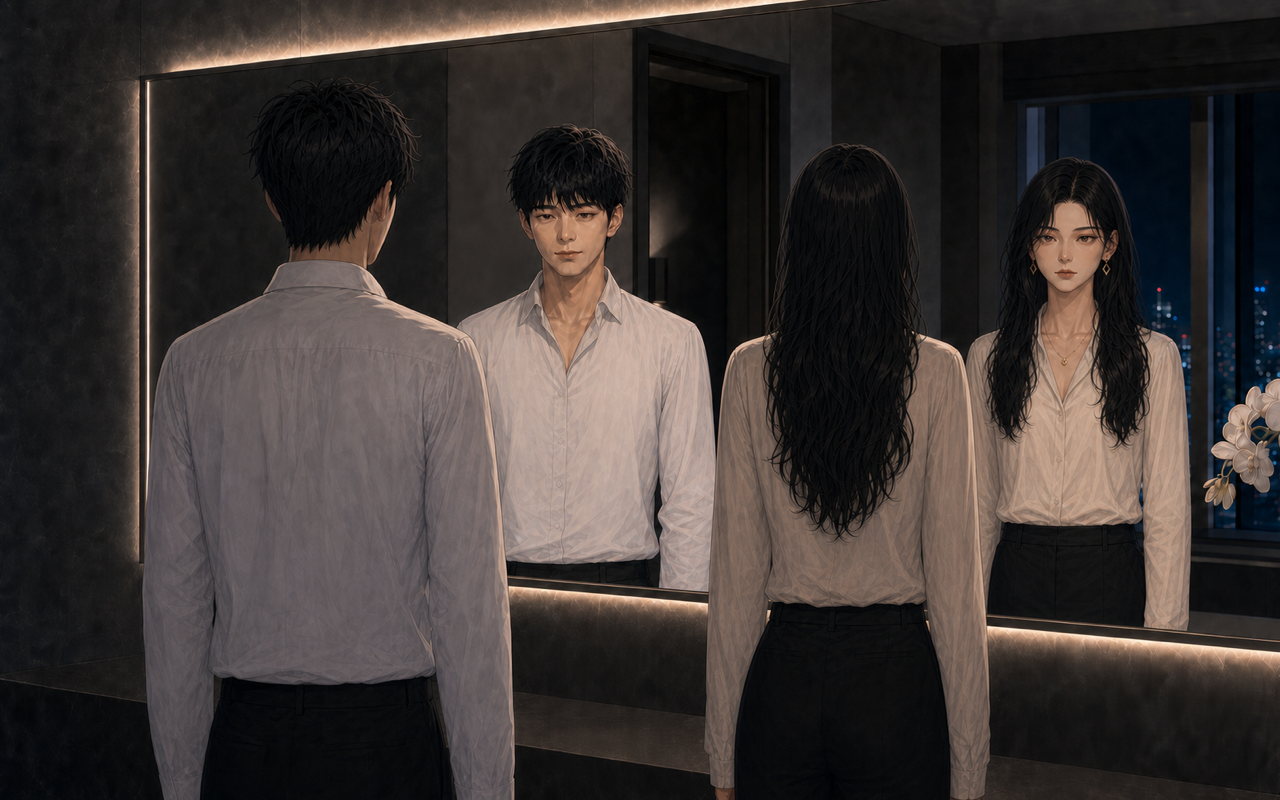
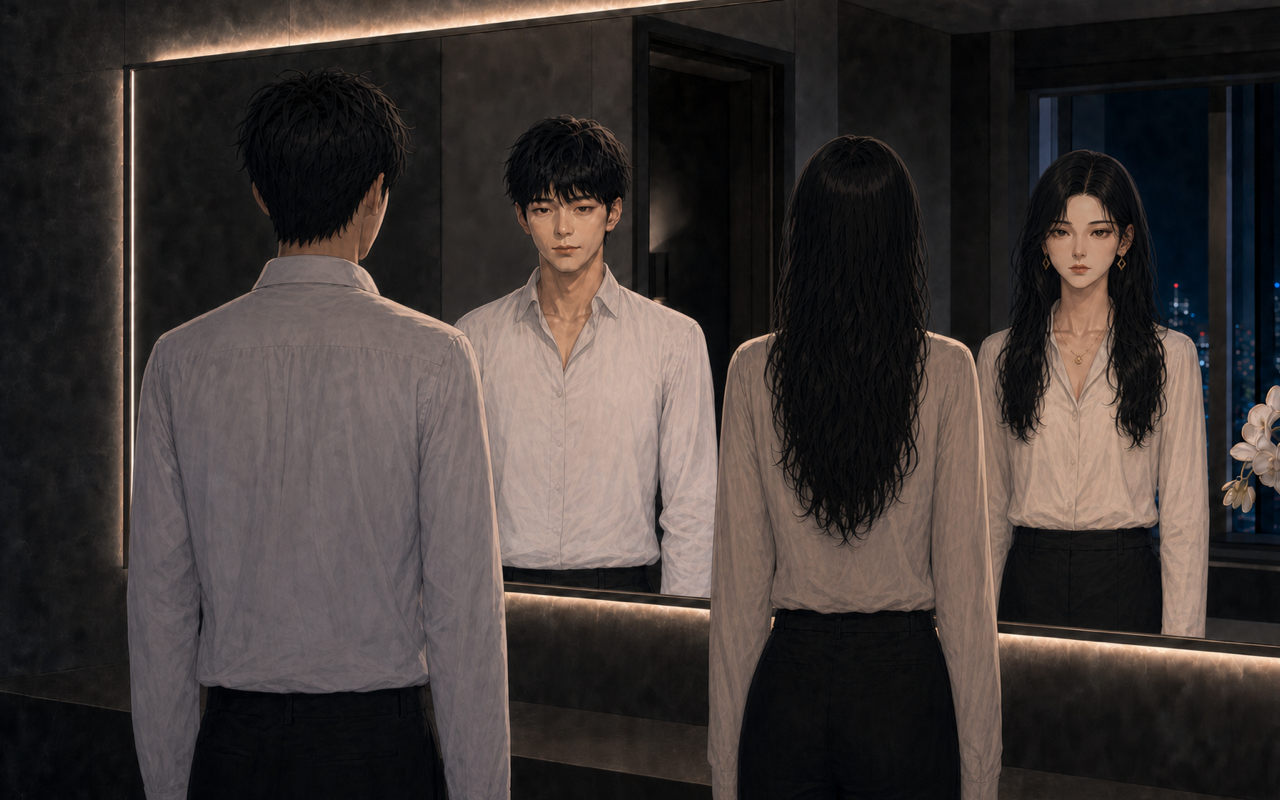
feat(art): add late-call ending CG

diff --git a/assets/IMAGE_PROMPTS.md b/assets/IMAGE_PROMPTS.md
@@ -304,7 +304,7 @@ Final shot prompts and built-in source outputs:
 - `assets/cg/ending_gangnam_dream_white_v1.png` — `exec-d2e5bbf5-70ab-44f0-83e3-60b3209de139.png`. Clear morning window; Minjun holds a blank cream deed folder and quietly meets one faint physically coherent reflection. Relief, not conquest.
 - `assets/cg/ending_with_daeun_v1.png` — `exec-24db2176-799d-4a80-b4a7-923a5b549e3a.png`. Modest outer-Seoul home; exactly two ramyeon bowls, two chopstick sets, and two water cups; Daeun and Minjun share mutual eye contact and near-touching hands. Rings hidden by angle.
 - `assets/cg/ending_second_love_v1.png` — `exec-379fc274-9d3e-4f01-acea-e3da97276af1.png`. Gangnam night window and compact coffee counter on one axis; Daeun holds one mug and turns toward Minjun while he prepares the second mug with coherent pour-over hands.
-- `assets/cg/ending_jiyeon_man_v1.png` — `exec-9b1c5efb-4fff-4c57-ad1c-dc50cbd4f5bd.png`. Off-axis mirror observer. Real Minjun is screen-left and real Jiyeon screen-right; their reflections preserve the same horizontal order, because a mirror reverses depth rather than swapping actors. Both actors and reflections share one front-facing, upright head/neck, level shoulders, square torso, and straight lowered-arm pose; every hand is below the mirror crop. Exactly two real people plus two reflections. `exec-9e721768-f952-406a-9554-4ecf4225873a.png` was rejected for horizontally swapping the reflected pair; `exec-0ebad28c-6535-4608-b8a0-7cae533b8efa.png` fixed order but changed arm poses; `exec-87994c38-c7a8-452d-a0a5-40d1a51215c2.png` still turned both foreground heads away from the pose shown in reflection; `exec-5d74ad12-cdbf-416f-8a9d-1bacdd79c46c.png` corrected the bodies but left Jiyeon's reflected head turned.
+- `assets/cg/ending_jiyeon_man_v1.png` — final correction source `exec-8f135993-0d87-4742-81f4-5dc9b336fe6f.png`. Off-axis mirror observer. Real Minjun is screen-left and real Jiyeon screen-right; their reflections preserve the same horizontal order, because a mirror reverses depth rather than swapping actors. Both actors and reflections share one upright head/neck, level shoulders, square torso, and straight lowered-arm pose; every hand is below the mirror crop. Exactly two real people plus two reflections. `exec-9e721768-f952-406a-9554-4ecf4225873a.png` was rejected for horizontally swapping the reflected pair; `exec-0ebad28c-6535-4608-b8a0-7cae533b8efa.png` fixed order but changed arm poses; `exec-87994c38-c7a8-452d-a0a5-40d1a51215c2.png` still turned both foreground heads away from the pose shown in reflection; `exec-5d74ad12-cdbf-416f-8a9d-1bacdd79c46c.png` corrected the bodies but left Jiyeon's reflected head turned; `exec-9b1c5efb-4fff-4c57-ad1c-dc50cbd4f5bd.png` kept the order but was rejected after runtime review because Minjun's head/torso axis and Jiyeon's shoulder/arm spacing still read as independent poses rather than one reflected stance.
 - `assets/cg/ending_guardian_v1.png` — `exec-85c50d6a-c635-4b5c-980d-ff17cb835e9c.png`. Modest Changwon hospital discharge exterior; Father walks independently and looks at Minjun while Minjun carries one duffel and one folded jacket.
 - `assets/cg/ending_jaehyuk_way_v1.png` — `exec-44a82c54-9458-453e-8060-b2b59c22d745.png`. Expensive empty Gangnam room at night; Minjun's narrow profile and one clear hand stop on a half-drawn curtain while the city remains partly visible.
 - `assets/cg/ending_sangchul_reckoning_v1.png` — `exec-e2eb0ad5-4673-4c53-b1d7-3e57a0e17a51.png`. Modest room at blue hour; visibly open window, lowered phone, still writing hand, blank papers, and one pen. No police form or guaranteed police location.
@@ -313,11 +313,28 @@ Post-processing:
 
 ```text
 All sources: center crop 1586x992 -> 1584x990, then resample to 1280x800.
+Jiyeon mirror final correction: center crop 1586x992 -> 1536x960, then resample to 1280x800.
 Jaehyuk source exposure: RGB gamma 0.68, contrast 0.93, brightness 1.06.
 Sangchul source exposure: RGB gamma 0.74, contrast 0.95, brightness 1.04.
 ```
 
 The two exposure lifts preserve every pixel position and exist only so Deep Black/White runtime grading can damage or recover the print without hiding faces, hands, the curtain, open window, or documents. KO/EN `--qa=ending-p0` owns the final modal crop and exact-texture gate.
+
+---
+
+## 2026-07-13 P1 ending CG — The Late Call
+
+The image was produced with Codex built-in ImageGen. Its invariant scene and crop contract lives in `assets/ENDING_P1_VISUAL_BIBLE.md`.
+
+- `assets/cg/ending_late_call_v1.png` — accepted source `exec-f7f29490-a3d1-4f42-997f-4be132387e0e.png`. Late-30s canonical Minjun sits in a physically coherent KTX window seat in winter rain, holds one unbranded phone to his right ear, and raises the removed earbud in his left hand. Father remains voice-only; one earbud case rests on Minjun's lap. The earlier `exec-efc65021-bac7-4f79-a8ad-40df10660347.png` was rejected because the removed-earbud hand fell below the centered 950x430 ending preview.
+
+Prompt lock:
+
+```text
+Create a restrained-color Gangnam Ink final-life ending CG aboard a KTX bound for Changwon. Preserve canonical 38-year-old Kim Minjun: lean Korean face, short messy black hair, tired eyes, charcoal travel coat over a worn black crewneck. Aisle-side three-quarter camera, coherent forward-facing two-seat row, rain-streaked window and moving winter landscape. His right hand holds one phone to his right ear; his raised left hand holds exactly one removed earbud; one case rests on his lap. He looks only at the rain as his shoulders quietly release. Father is voice-only. Keep the face, gaze, both hands, phone, earbud, and rain inside the centered ending crop. No other named person, station platform, readable route display, logo, luxury first class, lens gaze, broad smile, duplicated device, or malformed hand.
+```
+
+Post-processing: center crop 1586x992 to 1584x990, then resample to 1280x800. KO/EN `--qa=ending-p1` locks the base and Jaehyuk-memory variant; KO/EN `--qa=transport` separately proves that `ktx_window` is an interior and `hometown_train_station` remains a platform.
 
 ---
 

diff --git a/docs/ENDING_ART.md b/docs/ENDING_ART.md
@@ -1,6 +1,6 @@
 # 엔딩 아트 점검 & 컷신 우선순위
 
-Updated: 2026-07-12
+Updated: 2026-07-13
 
 ## 목적
 
@@ -42,6 +42,7 @@ Updated: 2026-07-12
 | `cg_ending_guardian` | `assets/cg/ending_guardian_v1.png` | `guardian` | 창원 퇴원 날·아버지 짐·나란한 걸음 |
 | `cg_ending_jaehyuk_way` | `assets/cg/ending_jaehyuk_way_v1.png` | `jaehyuk_way` | 반쯤 친 커튼·Deep Black에서도 읽히는 고립 |
 | `cg_ending_sangchul_reckoning` | `assets/cg/ending_sangchul_reckoning_v1.png` | `sangchul_reckoning` | 열린 창·내린 전화·빈 서류와 펜 |
+| `cg_ending_late_call` | `assets/cg/ending_late_call_v1.png` | `late_call` | 창원행 KTX·겨울비·전화·뺀 이어버드 |
 
 프로포즈·결혼 과정 CG인 `cg_romance_proposal_daeun`, `cg_romance_wedding_daeun_small`, `cg_romance_wedding_daeun_full`, `cg_romance_wedding_gap_jiyeon`과 T2 결별 결과인 `cg_romance_breakup_daeun`, `cg_romance_breakup_jiyeon`은 2026-07-12에 완성됐지만 **엔딩 CG가 아니다**. 선택의 실제 순간과 비용을 시각화할 뿐 `with_daeun`, `jiyeon_man`, `lonely_rich`, `ordinary_life`의 최종 생활을 대신하지 않는다.
 
@@ -66,7 +67,7 @@ Updated: 2026-07-12
 | `with_daeun` | A | `cg_ending_with_daeun` | `convenience_night` | P0 완료. 결혼 여부를 손 각도로 숨긴 최종 생활 컷 |
 | `jiyeon_man` | A | `cg_ending_jiyeon_man` | `gangnam_day` | P0 완료. 현실/반사 인물 순서·시선·자세 1:1 잠금 |
 | `jaehyuk_way` | B | `cg_ending_jaehyuk_way` | `gangnam_night` | P0 완료. 핵심 moral collapse 엔딩 |
-| `late_call` | B | 없음 | `ktx_window` | P1 신규 CG 후보 |
+| `late_call` | B | `cg_ending_late_call` | `ktx_window` | P1 완료. 모든 기억 변주의 공통 물리인 KTX·전화·비만 고정 |
 | `stable_success` | B | 없음 | `rooftop_day` | P2. 전용 안정 배경이 있으면 좋음 |
 | `ordinary_life` | C | 없음 | 없음 | 공통 모노톤 실패/일상 카드 |
 | `burnout` | F | 없음 | 없음 | P1 공통 실패 CG 후보 |
@@ -118,7 +119,7 @@ Updated: 2026-07-12
 
 | 새 cg key | 연결 엔딩 | 장면 스펙 |
 |---|---|---|
-| `cg_ending_late_call` | `late_call` | KTX 창가, 폰을 쥔 손, 빗방울. 얼굴을 크게 안 보여줘도 됨 |
+| `cg_ending_late_call` | `late_call` | **완료.** 창원행 KTX 창가, 폰을 귀에 붙인 오른손, 화면 안에 남는 뺀 이어버드 왼손, 빗방울. 아버지는 음성으로만 존재 |
 | `cg_ending_instant_legend` | `instant_legend` | 너무 이른 강남 도착. 넓은 거실이 오히려 비현실적으로 비어 보임 |
 | `cg_ending_startup_exit` | `startup_exit` | 작은 사무실/회의실, 계약서와 노트북. 벼락부자보다 숨 돌리는 창업자 |
 | `cg_ending_lonely_rich` | `lonely_rich` | 고급 거실에서 혼자 배달앱을 닫는 장면. 돈과 외로움의 대비 |
@@ -127,7 +128,7 @@ Updated: 2026-07-12
 | `cg_ending_bankruptcy` | `bankruptcy`, `debt_spiral` | 계산기, 독촉 문자, 비 오는 방. 실패 공통 컷 가능 |
 | `cg_ending_burnout` | `burnout` | 응급실 형광등/천장/링거와 보호자 연락 질문. 정신건강의학과 `mental_break`와 공유 금지 |
 
-노출·감정 회수·상점 스크린샷 가치를 함께 보면 다음 실제 제작 순서는 `late_call` → `lonely_rich` → `gambling_recovery` → `bankruptcy/debt_spiral`이다. `startup_exit`, `instant_legend`, `orthodox_pinnacle`은 강한 성취 컷이지만 조건부 경로라 그다음이다. `mental_break`는 전용 진료실 컷을 만들기 전까지 정합한 엔딩 카드로 남긴다.
+`late_call`은 완료했다. 노출·감정 회수·상점 스크린샷 가치를 함께 보면 다음 실제 제작 순서는 `lonely_rich` → `gambling_recovery` → `bankruptcy/debt_spiral`이다. `startup_exit`, `instant_legend`, `orthodox_pinnacle`은 강한 성취 컷이지만 조건부 경로라 그다음이다. `mental_break`는 전용 진료실 컷을 만들기 전까지 정합한 엔딩 카드로 남긴다.
 
 ### P2 — 있으면 고급스러운 엔딩
 

diff --git a/CLAUDE.md b/CLAUDE.md
@@ -13,10 +13,10 @@
 | **상품 정의** | "강남 가는 게임"이 아니라 **"영혼이 색으로 무너지는 걸 지켜보는 게임"** — MORAL_TINT + description_if_known(재독) + 잃을 수 있는 결혼. 마케팅·데모·트레일러 전부 이 하나로 정렬. |
 | **최종 품질 게이트** | 전 영역 기준점·P0~P3·메타90/100만장 검증 조건은 `docs/MASTER_RELEASE_AUDIT.md`. 콘텐츠 수량이 아니라 블랙박스 플레이·한영 패리티·패드 과업·외부 기억/전환 증거로 판정. |
 | **이번 스프린트 (5레버)** | ①**루프 압축(몽타주)** ✅완료 ②**데모 훅** ✅완료(콜드오픈+SNS dik 양변주) ③**클립 가능성** ✅완료(시간의 기록 비주얼 카드+데모판) ④**EN 일관성** ✅완료 ⑤**오디오 정체성** ✅완료(moral band BGM 질감 전이+선택적 3변주 슬롯) |
-| **최근 완료** | **2026-07-12** — T2 결별 결과 CG 2종을 완성했다. 다은의 합의서 도장과 지연의 현관 이탈은 각 신혼집·정본 의상에서 결별 선택의 정확한 결과 문단에만 열리며, 반대 선택에는 누출되지 않는다. 지연 엔딩 거울도 현실/반사 모두 곧은 목·수평 어깨·정면 몸통·내린 팔로 최종 교정했다. 활성 CG 43장/배우 계약 79개, KO/EN breakup 각 10컷 + ending-p0 각 8컷 통과. |
-| **이전 주요** | **2026-07-12** — T1 프로포즈·결혼 선택 비주얼, 정류장 벤치 최종 반전, 설날/붕어빵, 카페 폴더 주인/김 부장 분리, 현수 터미널/회계·공무원 연속성, AP 24종 인월드 목적지 스틸, 상철 개인실, Year 2-4 겨울 연말, MORAL_TINT 명도 불변/Black 금빛 돈/주간 지각 완료. **2026-07-11** — 첫날밤/첫아침, 시골 여름, 남산·놀이동산, 첫눈/기후 의상 완료. 전체 이력 → `docs/WORK_LOG.md` |
-| **다음 작업** | 정식 출시 전 P1 결산 CG를 실제 노출·감정 회수 순으로 제작한다: `late_call` → `lonely_rich` → `gambling_recovery` → `bankruptcy/debt_spiral`. `mental_break`는 응급실 `burnout`과 공유하지 않는다. T2 히든 「그녀는 알고 있었다」는 Claude가 실제 이벤트·소유자를 구현한 뒤 제작한다. |
-| **마지막 업데이트** | 2026-07-12 (Codex: T2 결별 CG 2종 + 지연 거울 자세 최종 교정) |
+| **최근 완료** | **2026-07-13** — P1 `late_call` 전용 결산 CG를 완성했다. 창원행 KTX·겨울비·전화·뺀 이어버드만 모든 기억 변주의 공통 물리로 고정하고, 열차 실내 `ktx_window`와 지방역 `hometown_train_station`을 분리했다. 지연 엔딩 거울도 좌우뿐 아니라 머리-척추 축·어깨·몸통·내린 팔이 한 자세로 읽히도록 재교정했다. 활성 CG 44장/배우 계약 80개, KO/EN ending-p1·transport·ending-p0 통과. |
+| **이전 주요** | **2026-07-12** — T2 결별 결과 CG 2종, P0 최종 삶 엔딩 CG 8종, T1 프로포즈·결혼 선택 비주얼, 정류장 벤치 최종 반전, 설날/붕어빵, 카페 인물 분리, 현수 단계 연속성, AP 24종 인월드 스틸, 상철 개인실, Year 2-4 겨울 연말, MORAL_TINT 명도 불변/Black 금빛 돈/주간 지각 완료. **2026-07-11** — 첫날밤/첫아침, 시골 여름, 남산·놀이동산, 첫눈/기후 의상 완료. 전체 이력 → `docs/WORK_LOG.md` |
+| **다음 작업** | 정식 출시 전 P1 결산 CG를 실제 노출·감정 회수 순으로 제작한다: `lonely_rich` → `gambling_recovery` → `bankruptcy/debt_spiral`. `mental_break`는 응급실 `burnout`과 공유하지 않는다. T2 히든 「그녀는 알고 있었다」는 Claude가 실제 이벤트·소유자를 구현한 뒤 제작한다. |
+| **마지막 업데이트** | 2026-07-13 (Codex: late_call P1 CG + KTX/역 분리 + 지연 거울 포즈 재교정) |
 
 **세션 시작 시 위 "다음 작업"부터. 유저가 다른 지시를 하면 그쪽 우선.**
 

diff --git a/assets/ASSET_INDEX.md b/assets/ASSET_INDEX.md
@@ -21,6 +21,7 @@ Updated on 2026-07-12 for the separate cafe folder-owner and Manager Kim portrai
 Updated on 2026-07-12 for the player-facing wallet bus-stop bench, winter bungeoppang cart, and canonical Changwon Seollal bow CG.
 Updated on 2026-07-12 for Daeun's choice-gated proposal and small/full wedding variants plus Jiyeon's pre-decision wedding-scale negotiation CG.
 Updated on 2026-07-12 for eight final-life P0 ending CGs, physically correct Jiyeon mirror geometry, and ending-preview Moral legibility.
+Updated on 2026-07-13 for the `late_call` P1 ending CG, final Jiyeon mirror-pose correction, and separate KTX-interior/station semantic IDs.
 
 ## Use These Assets
 
@@ -383,7 +384,7 @@ Updated on 2026-07-12 for eight final-life P0 ending CGs, physically correct Jiy
 
 - `assets/backgrounds/regional_train_window_summer.png`
   - Person-free interior of a modest Korean intercity train with a two-seat window pair and summer rice paddies outside.
-  - Use for written in-train window scenes; do not substitute the outdoor station platform.
+  - Runtime IDs `ktx_window` and `regional_train_window` both resolve here. Use for written in-train window scenes; do not substitute the outdoor `hometown_train_station` platform.
 - `assets/backgrounds/daeun_mother_home_dining_summer.png`
   - Daeun mother's modest rural dining room at summer dusk, separate from Minjun's father's Changwon home.
   - Exactly three rice/soup place settings, centered rolled omelet, standing fan, medicine and reading glasses; no large family portrait or male factory jacket.
@@ -570,6 +571,7 @@ Updated on 2026-07-12 for eight final-life P0 ending CGs, physically correct Jiy
 
 - `assets/cg/ending_crypto_ghost.png`
   - Crypto Ghost ending CG: cramped late-night trading den, abstract chart light, phone in hand, cluttered desk, and exhausted Minjun.
+  - Use only for `crypto_ghost`; charts must stay abstract with no readable exchange text or real crypto logos.
 
 - `assets/cg/ending_full_circle_v1.png`
   - `full_circle` only. Newly occupied Gangnam room; Minjun tells Father by phone that Sangchul's debt is cleared. Father is not physically present.
@@ -594,7 +596,10 @@ Updated on 2026-07-12 for eight final-life P0 ending CGs, physically correct Jiy
 
 - `assets/cg/ending_sangchul_reckoning_v1.png`
   - `sangchul_reckoning` only. Lowered phone, open window, blank papers, and one pen support both police-statement and direct-settlement prose variants.
-  - Use only for `crypto_ghost`; charts must stay abstract with no readable exchange text or real crypto logos.
+
+- `assets/cg/ending_late_call_v1.png`
+  - `late_call` only. On the Changwon-bound KTX, late-30s Minjun holds one phone to his right ear and one removed earbud above the ending crop while winter rain moves down the window.
+  - Father, Sangchul, Jaehyuk, and romance characters remain outside the frame because the ending variants guarantee only Minjun, the train, the call, and the rain.
 
 - `assets/cg/jaehyuk_reveal.png`
   - Jaehyuk route reveal CG: private meeting room, moral line-crossing moment.

diff --git a/docs/WORK_LOG.md b/docs/WORK_LOG.md
@@ -1,5 +1,23 @@
 # Gangnam Dream Work Log
 
+## 2026-07-13 (Codex — P1 늦은 전화 엔딩 CG + 지연 거울 포즈 재교정)
+
+### 진단
+- `late_call`은 아버지와 화해한 5년 결산의 핵심 B엔딩인데 전용 이미지가 없었다. 더구나 `ktx_window`가 실제 열차 내부가 아니라 지방역 승강장에 연결돼 바다 데이트와 아버지 KTX 전화가 모두 플랫폼으로 보였다.
+- 최재혁을 끝까지 믿었던 `late_call` 변주만 KTX·비·이어폰을 생략해, 하나의 엔딩 CG를 다른 변주와 공유할 수 없는 물리적 예외가 있었다. 영어의 `dial tone rang`과 아버지가 자신을 `Dad`로 지칭하는 대사도 번역투였다.
+- 직전 `jiyeon_man` 교정본은 좌우 순서는 맞았지만 실제 민준의 머리-몸통 축과 지연의 어깨·팔 간격이 반사상과 별개 자세처럼 읽혔다. 거울은 닮은 두 포즈가 아니라 한 자세의 반사여야 했다.
+
+### 구현
+- 창원행 KTX 창가에서 38세 민준이 오른손 전화기를 귀에 붙이고 왼손으로 뺀 이어버드를 든 `ending_late_call_v1.png`를 제작했다. 아버지·상철·재혁은 모든 변주에서 프레임 밖 음성/기억으로 남기고, 얼굴·두 손·전화·이어버드·겨울비를 950×430 중앙 미리보기에 고정했다.
+- `late_call`에 전용 CG를 배선하고 최재혁 변주도 같은 겨울비 KTX에서 전화를 거는 장면으로 최소 교정했다. 영어 수신음과 아버지 대사를 자연스럽게 다듬고 엔딩 요약의 반복도 제거했다.
+- `ktx_window`는 실제 무인 열차 내부로 복구하고 `hometown_train_station`을 별도 ID로 분리했다. 바다 데이트와 아버지 전화는 실내, 명절 선택은 승강장이라는 의미를 데이터·런타임·QA 계약으로 잠갔다.
+- 지연 거울은 실제/반사 모두 민준 왼쪽·지연 오른쪽을 유지하면서 머리-척추 축, 수평 어깨, 정면 몸통, 내린 팔의 간격이 한 자세로 읽히는 최종본으로 다시 교체했다. 손은 모달 아래로 숨겨 독립 제스처 가능성을 제거했다.
+
+### 검증
+- KO/EN `--qa=ending-p1` 각 2컷에서 기본/최재혁 기억 변주의 정확한 전용 텍스처와 430px 크롭을 확인했다. KO/EN `--qa=transport` 각 3컷은 바다·아버지 장면의 열차 내부와 명절 장면의 지방역 승강장을 분리했고, KO/EN `--qa=ending-p0` 각 8컷은 교체한 지연 거울을 통과했다.
+- `CGRuntimeCheck` 통과. `event_visual_contract_check.py --strict`는 62개 잠금/부채 0, `cg_acting_contract_check.py`는 활성 CG 44장/배우 계약 80개/누락·고아 0을 보고했다. 영어 누출 0, 대표 아크 잼 0이다.
+- 전체 `audit.sh`는 ERROR 0/WARNING 0, write-only/inert 0, 오디오 64개, 밸런스 1,200런×3, GDScript 57개 컴파일을 통과하고 `✅ 감사 통과`로 끝났다.
+
 ## 2026-07-12 (Codex — T2 결별 결과 CG + 지연 거울 자세 최종 교정)
 
 ### 진단

diff --git a/assets/ENDING_P1_VISUAL_BIBLE.md b/assets/ENDING_P1_VISUAL_BIBLE.md
@@ -1,0 +1,30 @@
+# Gangnam Dream P1 Ending Visual Bible
+
+This document owns the release-tier P1 ending CGs added after the eight-image P0 final-life package. Each image depicts the ending's shared physical truth across every `description_if_known` variant. It never bakes a conditional person, confession, or route fact into the frame.
+
+## Shared Contract
+
+- Runtime source: 1280x800 PNG, restrained-color Gangnam Ink VN climax layer.
+- Every ending owns a distinct CG key and file. No event, romance, or other ending may borrow it.
+- The centered 950x430 ending preview must retain the face, gaze, decisive hand, and story prop.
+- Conditional characters remain voice-only or outside the frame unless every prose variant guarantees their physical presence.
+- No readable UI, route sign, ticket, legal text, brand, logo, watermark, or invented ending fact.
+- Runtime Moral Tint may damage color and print surface but cannot erase the decisive action.
+
+## `cg_ending_late_call`
+
+- File: `assets/cg/ending_late_call_v1.png`.
+- Owner: `late_call` only.
+- Shared moment: on a KTX bound for Changwon, Minjun has heard Father's voice and presses the phone closer after removing an earbud. Father is voice-only.
+- Camera: medium-wide aisle-side three-quarter. Minjun occupies the screen-center window seat; the rain-streaked window and moving Korean winter landscape fill screen-right. The forward-facing two-seat row, armrests, aisle, overhead rack, and window alignment must remain physically coherent.
+- Identity: 38-year-old Minjun retains the canonical lean face, short messy black hair, tired eyes, and hollow cheeks. He wears a plain charcoal travel coat over the worn black crewneck, never a corporate suit or success costume.
+- Acting: right hand holds one unbranded phone to the right ear. Raised left hand holds exactly one removed earbud; one case rests on the lap. His eyes stay on the rain, mouth barely released, shoulders easing without a broad smile or collapse.
+- Variant lock: Sangchul and Jaehyuk are memories only. No Father, scammer, partner, romance heroine, gukbap bowl, Gangnam apartment, or station platform appears.
+- Avoid: subway bench, luxury first class, Japanese rail styling, readable route display, repeated phone/earbud/case, malformed hands, lens gaze, funeral mood, or triumphant arrival.
+
+## Acceptance Gate
+
+- `ImageRegistry`, Korean ending data, `cg_acting_manifest.json`, and `CGRuntimeCheck` agree on the owner and path.
+- The English ending remains a text-only overlay and inherits the Korean CG key.
+- `ScreenshotQA --qa=ending-p1 --lang=ko/en` proves the exact texture, 430px crop, base copy, and the `jaehyuk_trusted_fully` variant that previously omitted the train.
+- Event visual contracts prove that `ktx_window` resolves to an actual train interior, while the holiday decision retains the separate provincial station platform.

diff --git a/docs/RELEASE_NOTES.md b/docs/RELEASE_NOTES.md
@@ -1,6 +1,7 @@
 # Gangnam Dream Release Notes
 
 ## Unreleased
+- Added the first P1 final-life CG for `late_call`: Minjun now makes the delayed call from a rain-streaked Changwon-bound KTX, with Father and route-specific memories kept outside the frame so every ending variant remains truthful. Split the semantic train-interior and provincial-platform IDs, restored the sea-date and Father-call scenes to an actual carriage, retained the holiday choice at the station, and added focused Korean/English ending and transport QA. Also replaced Jiyeon's ending mirror again after runtime review so the foreground bodies and reflections share one readable head-spine, shoulder, torso, and lowered-arm pose instead of merely preserving actor order, and polished the repeated English phone dialogue.
 - Added dedicated paragraph-delayed rupture CGs for Daeun's betrayal result and Jiyeon's departure result. Both now use their canonical newlywed homes, never leak into the relationship-preserving choice, and keep heroine outfit, gaze, architecture, and lower dialogue crop coherent in Korean and English. Daeun's impossible pre-registration divorce-paper line is now a separation agreement she visibly seals. Also replaced the Jiyeon ending mirror once more so the real bodies and reflections match in head, neck, shoulders, torso, and arms, not only left-right order.
 - Completed the eight-image P0 final-life ending package for `full_circle`, `gangnam_dream_white`, `with_daeun`, `second_love`, `jiyeon_man`, `guardian`, `jaehyuk_way`, and `sangchul_reckoning`. Each ending now owns a distinct 1280x800 final-state CG instead of reusing proposal, wedding, hospital-visit, or generic Gangnam art. The Jiyeon mirror keeps both actor order and body pose physically identical between reality and reflection, Deep Black preserves readable faces/actions, and dedicated KO/EN screenshot QA locks the exact texture and 430px preview crop. Also corrected Daeun's married ending so it no longer fabricates a Gangnam arrival, fixed her Korean speech register, and kept the English overlay text-only.
 - Completed the commitment-scene visual package. Daeun's cafe proposal now keeps its ring hidden until the accepted result paragraph, the delayed branch never leaks that CG, and the wedding-prep spend persists into distinct modest/full ceremony images without filling Minjun's sparse guest side. Jiyeon's route now shows the pre-decision hotel-ballroom class negotiation rather than an unrelated night street or a fabricated bridal outcome. Added a matched proposal portrait, flag-dependent event CGs with legacy-save fallback, explicit acting/eye-line contracts, and an 11-shot Korean/English regression scope.

diff --git a/docs/CODEX_QUEUE.md b/docs/CODEX_QUEUE.md
@@ -61,7 +61,11 @@
 
 ## [x] P0-1. 최종 삶 엔딩 CG 8종 (2026-07-12 Codex 완료)
 
-완료: `full_circle`, `gangnam_dream_white`, `with_daeun`, `second_love`, `jiyeon_man`, `guardian`, `jaehyuk_way`, `sangchul_reckoning`이 과정 CG 재사용 없이 각각 전용 1280×800 최종 삶 CG를 소유한다. 지연 거울은 현실/반사 모두 민준 왼쪽·지연 오른쪽 순서와 머리·어깨·몸통·내린 팔 자세를 1:1로 유지하며, Deep Black 엔딩도 얼굴·손·커튼이 읽히는 전용 미리보기 중간톤을 쓴다. 활성 CG 41장·배우 계약 75개, KO/EN `--qa=ending-p0` 8컷, exact texture/430px crop, `CGRuntimeCheck`가 배선을 잠근다.
+완료: `full_circle`, `gangnam_dream_white`, `with_daeun`, `second_love`, `jiyeon_man`, `guardian`, `jaehyuk_way`, `sangchul_reckoning`이 과정 CG 재사용 없이 각각 전용 1280×800 최종 삶 CG를 소유한다. 지연 거울은 현실/반사 모두 민준 왼쪽·지연 오른쪽 순서와 머리-척추 축·어깨·몸통·내린 팔 자세를 1:1로 유지하며, Deep Black 엔딩도 얼굴·손·커튼이 읽히는 전용 미리보기 중간톤을 쓴다. KO/EN `--qa=ending-p0` 8컷, exact texture/430px crop, `CGRuntimeCheck`가 배선을 잠근다.
+
+## [ ] P1-E. 정식 출시 결산 CG 확장 (2026-07-13: 1/8)
+
+`late_call` 완료: 창원행 KTX의 민준·전화·겨울비·뺀 이어버드만 모든 기억 변주의 공통 사실로 고정했다. `ktx_window`를 실제 실내로 복구하고 지방역 `hometown_train_station`을 분리했으며, KO/EN `ending-p1` 2컷과 `transport` 3컷이 배선·크롭·장소 의미를 잠근다. 다음 실제 제작 순서는 `lonely_rich` → `gambling_recovery` → `bankruptcy/debt_spiral`; 이후 조건부 성취 엔딩과 `burnout`을 별도 판단한다.
 
 ## [x] P1-0. AP 주간 결정 보드 (2026-07-10 Codex 완료)
 

diff --git a/docs/DECISIONS.md b/docs/DECISIONS.md
@@ -1,5 +1,12 @@
 # Gangnam Dream Decisions
 
+## 2026-07-13 (거울은 같은 포즈를 증명하고, 엔딩 CG는 모든 변주의 공통 사실만 소유한다)
+
+- **거울의 판정 단위**: 인물 좌우 순서가 맞는 것만으로는 통과가 아니다. 실제 몸과 반사상은 한 사람의 단일 자세여야 하므로 머리-척추 축, 목 각도, 어깨 높이·기울기, 몸통 방향, 팔과 몸 사이 간격을 1:1로 읽을 수 있어야 한다. 독립 포즈처럼 보인 직전 `jiyeon_man` 후보는 폐기하고, 손은 양쪽 모두 미리보기 아래로 숨긴 최종본으로 교체한다.
+- **엔딩 변주 공유**: `description_if_known`이 여러 개인 엔딩 CG에는 모든 변주가 보장하는 물리만 그린다. `late_call`은 민준·창원행 KTX·겨울비·전화·뺀 이어버드만 고정하고, 아버지와 상철·재혁은 음성 또는 기억으로 프레임 밖에 둔다.
+- **장소 ID의 의미**: `ktx_window`는 실내 열차 창가이고 `hometown_train_station`은 지방역 승강장이다. 한 이미지가 둘을 대신하지 않으며, 바다 데이트·아버지 전화는 실내, 명절 선택은 승강장으로 각각 잠근다.
+- **게이트**: P0 거울은 KO/EN `ending-p0`, P1 전화 엔딩은 KO/EN `ending-p1`, 열차/역 구분은 KO/EN `transport` 캡처와 `CGRuntimeCheck`의 exact path로 회귀를 막는다.
+
 ## 2026-07-12 (결별은 선택 전에 예고하지 않고, 떠나는 행동이 일어날 때만 보여준다)
 
 - **결과 소유**: 다은의 도장과 지연의 떠나는 뒷모습은 각각 `arc_daeun_final_choice` 배신 선택과 `arc_jiyeon_verdict` 보냄 선택의 결과 CG다. 도입·선택 화면이나 관계를 지키는 반대 선택에는 절대 노출하지 않는다.

diff --git a/docs/QA_CHECKLIST.md b/docs/QA_CHECKLIST.md
@@ -44,6 +44,8 @@ Cross-discipline release gates and current product risks live in `docs/MASTER_RE
 | Investment modal Trade/Holdings/Market movers/Bank pages | `--qa=invest-en` |
 | Demo month summary, demo ending CTA, 6-month Time Ledger card | `--qa=demo-end-en` |
 | P0 final-life endings: eight exact CG owners, 950x430 crop, Jiyeon mirror with identical real/reflected order and pose, White/Deep Black readability, and KO/EN first viewport | `--qa=ending-p0 --lang=ko/en` |
+| P1 final-life endings: exact CG owner/crop plus the highest-priority memory variant sharing the same physical scene | `--qa=ending-p1 --lang=ko/en` |
+| Train semantics: summer/date and Father-call scenes remain inside the train, while the holiday decision remains on the provincial platform | `--qa=transport --lang=ko/en` |
 | Representative ending modals, graded CG/card surface, fallback mood cards, and final Time Ledger card | `--qa=endings-en` |
 | Title collection and meta-title reward surface | `--qa=title-en` |
 | Tutorial overlay surface and onboarding copy | `--qa=tutorial-en` |
